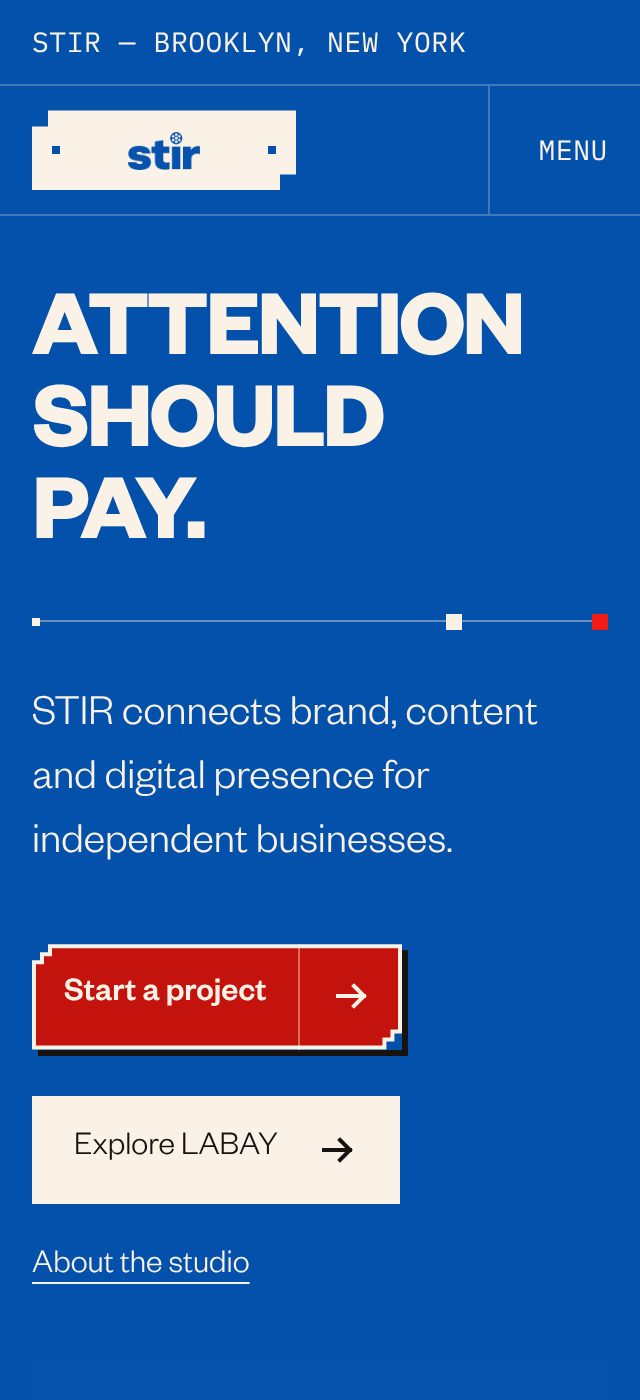
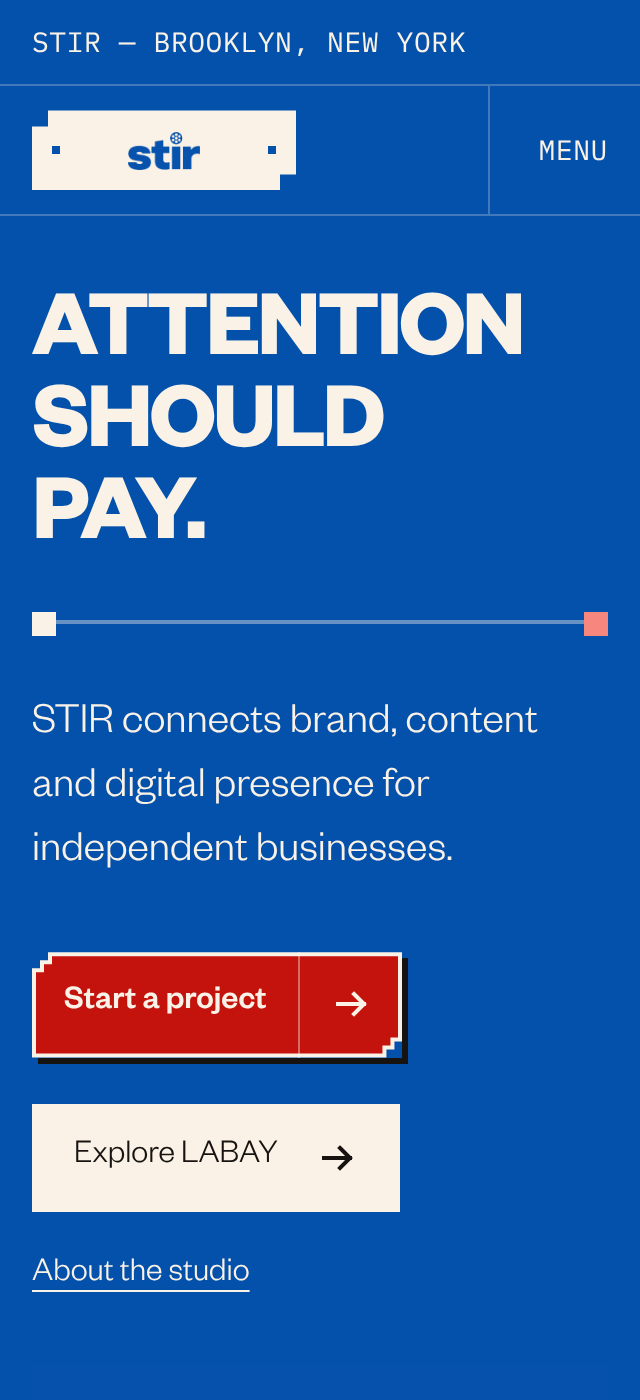
Headline signage motion, louder
Same vocabulary, more presence:

- The rule runs the full width of the copy column instead of 34ch, and
  is 2px instead of 1.
- Blocks are 12px instead of 8, and there are two of them in convoy.
  The brief's own "passing signal" is two squares advancing, so the
  pair is in-system rather than invented; the trailing one sits at 50%
  opacity so the direction of travel is unambiguous.
- Eight positions over 3.6s instead of six over 5.6s, so it reads as
  motion rather than as something you happen to catch.
- The track's last position is exactly the end mark's 12px, so the lead
  block lands on the red mark and covers it. That is the arrival. An
  earlier pass animated the mark's background from signal to ivory to
  announce it; that was a second thing to go wrong for no gain, and it
  is gone.

Measured live rather than frozen: the lead visits eight distinct
positions (0, 13, 26, 39, 52, 65, 78, 98%), the trailing block is one
step behind in 10/10 samples, and computed animation-name is "none"
under prefers-reduced-motion.

Still steps(1,end) throughout: no easing, no glow, no bounce.

Claude-Session: https://claude.ai/code/session_01VxXrBkLji1xPBoqZiweH4z

diff --git a/assets/stir.css b/assets/stir.css
@@ -547,31 +547,50 @@ textarea.field { min-height: 120px; resize: vertical; }
 .on-ink { background: var(--ink); color: var(--ivory); }
 .on-ink .press a:hover, .on-ink .press a:focus-visible { background: var(--ivory); color: var(--ink); }
 
-/* ── The headline's signage rule ─────────────────────────────────────
-   The one looping thing in the interface. It is the sign's own
-   vocabulary: a mounting rule, two square fixings, an ivory block that
-   advances in discrete steps, and a red mark at the end of the track.
-   Attention travelling toward the thing that pays. No easing, no glow,
-   no bounce; it holds still under reduced motion. */
+/* ── The headline's signage rule ───────────────────────────────
+   The one looping thing in the interface, and it is the sign's own
+   vocabulary rather than an invented effect: a mounting rule, two
+   square fixings, blocks that advance in discrete steps, and a mark at
+   the end of the track. Attention travelling toward the thing that
+   pays.
+
+   Louder than the first pass: the rule runs the width of the copy
+   column instead of 34ch, the blocks are 12px instead of 8, there are
+   two of them in convoy -- the brief's own "passing signal" is two
+   squares advancing -- the cadence is 3.6s over eight positions
+   instead of 5.6s over six, and the mark at the end answers when the
+   lead block lands on it -- the track's last position is exactly the
+   end mark's 12px, so the block covers it rather than needing a
+   separate colour animation to announce the arrival. Still
+   steps(1,end): no easing, no glow, no bounce, and the whole thing
+   holds still under reduced motion. */
 .sign-rule {
-  position: relative; height: 10px; margin-top: var(--s24);
-  max-width: 34ch; border-top: 1px solid var(--ivory-40);
+  position: relative; height: 14px; margin-top: var(--s24);
+  border-top: 2px solid var(--ivory-40);
 }
 .sign-rule i { position: absolute; display: block; }
-.sign-mount { top: -2px; width: 4px; height: 4px; background: var(--ivory); }
-.sign-mount.a { left: 0; }
-.sign-mount.b { right: 0; }
-.sign-end { top: -4px; right: 0; width: 8px; height: 8px; background: var(--signal); }
-.sign-tick { top: -4px; left: 0; width: 8px; height: 8px; background: var(--ivory); }
+/* One fixing at the head of the track; the red mark is the one at
+   the other end, so a second ivory square there was dead markup. */
+.sign-mount { top: -4px; left: 0; width: 6px; height: 6px; background: var(--ivory); }
+.sign-end { top: -6px; right: 0; width: 12px; height: 12px; background: var(--signal); }
+.sign-tick { top: -6px; left: 0; width: 12px; height: 12px; background: var(--ivory); }
+.sign-tick.trail { opacity: .5; }
+
 @media (prefers-reduced-motion: no-preference) {
-  .sign-tick { animation: tick 5.6s steps(1, end) infinite; }
+  .sign-tick { animation: tick 3.6s steps(1, end) infinite; }
+  /* One step behind the leader: the cycle is eight steps of 450ms, so
+     a negative delay of seven of them trails by exactly one. */
+  .sign-tick.trail { animation-delay: -3.15s; }
+
   @keyframes tick {
-    0%   { left: 0; }
-    16%  { left: 18%; }
-    32%  { left: 36%; }
-    48%  { left: 54%; }
-    64%  { left: 72%; }
-    80%, 100% { left: calc(100% - 8px); }
+    0%          { left: 0; }
+    12.5%       { left: 13%; }
+    25%         { left: 26%; }
+    37.5%       { left: 39%; }
+    50%         { left: 52%; }
+    62.5%       { left: 65%; }
+    75%         { left: 78%; }
+    87.5%, 100% { left: calc(100% - 12px); }
   }
 }
 

diff --git a/index.html b/index.html
@@ -76,8 +76,8 @@
            square fixings, a block advancing in discrete steps toward
            the red mark at the end of the track. -->
       <div class="sign-rule" aria-hidden="true">
-        <i class="sign-mount a"></i><i class="sign-mount b"></i>
-        <i class="sign-end"></i><i class="sign-tick"></i>
+        <i class="sign-mount a"></i><i class="sign-end"></i>
+        <i class="sign-tick trail"></i><i class="sign-tick"></i>
       </div>
       <p class="lede" style="margin-top:var(--s24)">STIR connects brand, content and digital presence for independent businesses.</p>
       <p class="actions">
